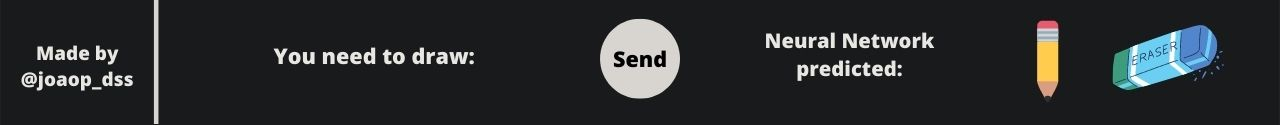
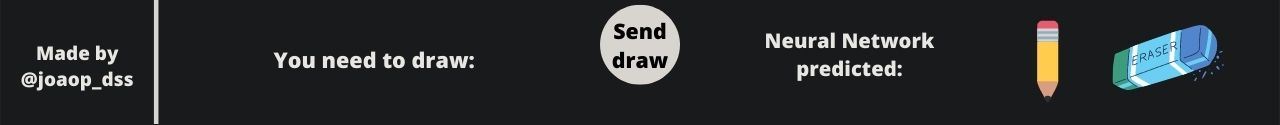
counting rounds added

Changed region(s): [[0.1875, 0.384, 0.375, 0.552], [0.4688, 0.408, 0.5312, 0.792], [0.4688, 0.048, 0.5312, 0.336]]

diff --git a/cam_painter.py b/cam_painter.py
@@ -11,8 +11,8 @@ def process_image(img, shape):
 
 model = tf.keras.models.load_model("draw_model.h5")
 
-imgg = cv2.imread("imgs/sun.png")
-labels = ['cloud', 'church', 'sun', 'banana', 'rainbow', 'pants']
+labels = ['banana', 'rainbow', 'church', 'pants', 'sun', 'pizza', 'circle', 'cloud']
+labels_copy = labels.copy()
 actual_label = ""
 nn_prediction = ""
 draw_finished = False
@@ -33,12 +33,15 @@ img_canvas = np.zeros((720, 1280, 3), np.uint8)
 first_frame = True
 start_time = time.time()
 end_time = 0
+count = 0
 while True:
+
     _, frame = cap.read()
 
     if _:
         if draw_finished or first_frame:
-            idx_label = np.random.randint(0, 6)
+            count += 1
+            idx_label = np.random.randint(0, len(labels))
             print(idx_label)
             actual_label = labels[idx_label]
 
@@ -94,6 +97,7 @@ while True:
         frame = cv2.bitwise_or(frame, img_canvas)
 
         frame[0:125, 0:1280] = header_img
+        cv2.putText(frame, f"{count}/{len(labels_copy)}", (620, 110), cv2.FONT_HERSHEY_SIMPLEX, 0.6, (255, 255, 255), 2)
         cv2.putText(frame, actual_label, (310, 95), cv2.FONT_HERSHEY_SIMPLEX, 0.8, (255, 255, 255), 2)
         # print(nn_prediction)
         cv2.putText(frame, nn_prediction, (800, 105), cv2.FONT_HERSHEY_SIMPLEX, 0.8, (255, 255, 255), 2)
@@ -110,10 +114,15 @@ while True:
             print(preds)
             num = max(preds[0])
             idx = list(preds[0]).index(num)
-            nn_prediction = labels[idx]
+            nn_prediction = labels_copy[idx]
             img_canvas = np.zeros((720, 1280, 3), np.uint8)
             print(end_time - start_time)
             start_time = time.time()
             print(nn_prediction)
+            labels.remove(actual_label)
 
+        if count == 9:
+            break
+
+    cap.release()
     end_time = time.time()
